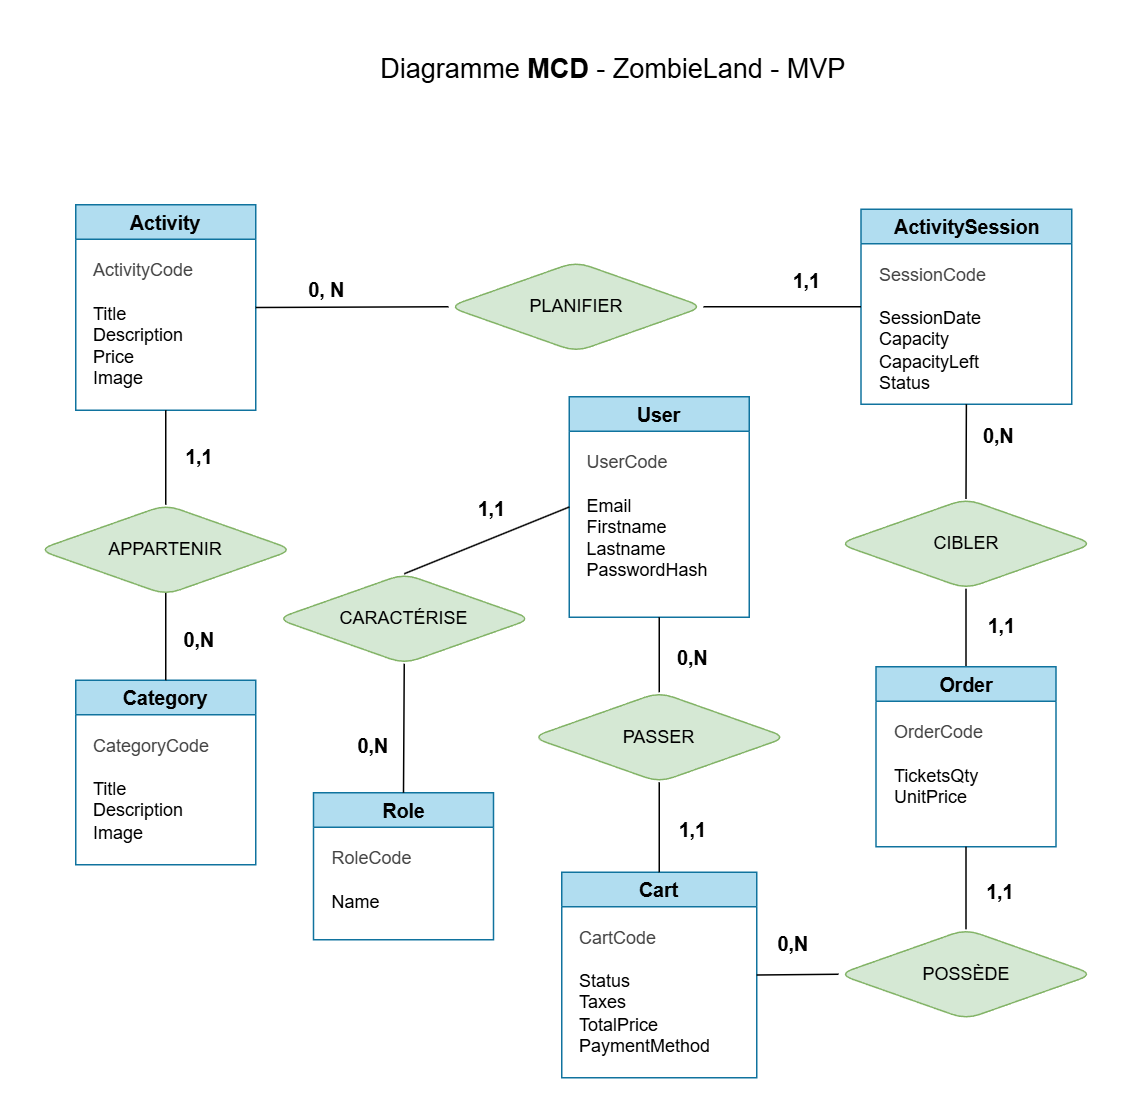
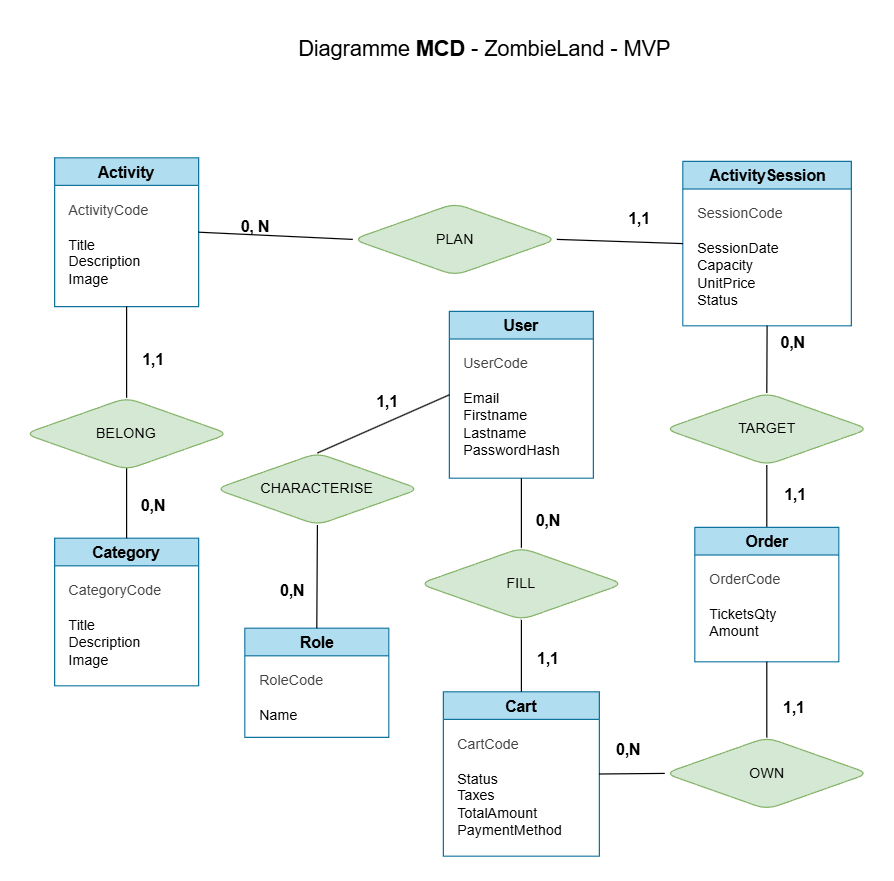
docs: review | mcd, mld, datas dictionary, postgres schema

diff --git a/_conception/datamodels/mld.md b/_conception/datamodels/mld.md
@@ -42,8 +42,7 @@
 - ActivityId (PK)  
 - CategoryId (FK → Category.CategoryId)  
 - Title  
-- Description  
-- Price  
+- Description    
 - Image  
 - CreatedAt  
 - UpdatedAt  
@@ -57,7 +56,8 @@
 - SessionId (PK)  
 - ActivityId (FK → Activity.ActivityId)  
 - SessionDate  
-- Capacity   
+- Capacity  
+- UnitPrice
 - Status {Scheduled, Cancelled, Completed}  
 - CreatedAt
 - UpdatedAt
@@ -72,7 +72,7 @@
 - CartId (FK → Cart.CartId)  
 - SessionId (FK → ActivitySession.SessionId)  
 - TicketsQty  
-- UnitPrice  
+- Amount  
 - CreatedAt  
 - UpdatedAt  
 - UNIQUE (CartId, SessionId)  
@@ -84,8 +84,8 @@
 ### Cart
 - CartId (PK)  
 - UserId (FK → User.UserId)  
-- TotalPrice  
-- Tax  
+- Taxes  
+- TotalAmount  
 - PaymentMethod  
 - PaymentDate (NULL si pas payé)  
 - Status {Pending, Confirmed, Cancelled, Refunded}  

diff --git a/_conception/datamodels/mcd.md b/_conception/datamodels/mcd.md
@@ -32,23 +32,23 @@ Ce document décrit le modèle conceptuel (**MCD**) et le modèle logique (**MLD
 - ActivityCode  
 - Title  
 - Description  
-- Price  
 - Image  
 
 #### ActivitySession
 - SessionCode  
 - SessionDate  
-- Capacity    
+- Capacity  
+- UnitPrice  
 - Status {Scheduled, Cancelled, Completed}  
 
 #### Order
 - OrderCode    
 - TicketsQty 
-- UnitPrice  
+- Amount  
 
 #### Cart
 - CartCode  
-- TotalPrice  
+- TotalAmount  
 - Taxes  
 - PaymentMethod  
 - PaymentDate  

diff --git a/_conception/datamodels/datas_dictionary.md b/_conception/datamodels/datas_dictionary.md
@@ -1,4 +1,4 @@
-# 📖 Dictionnaire des Données (PostgreSQL)
+# 📖 Dictionnaire des Données
 
 *Ajout des champs avec TZ si Time Zone : TYPESTAMPTZ DEFAULT NOW()
 Limiter la taille du texte : `firstname` : `VARCHAR(50)`*